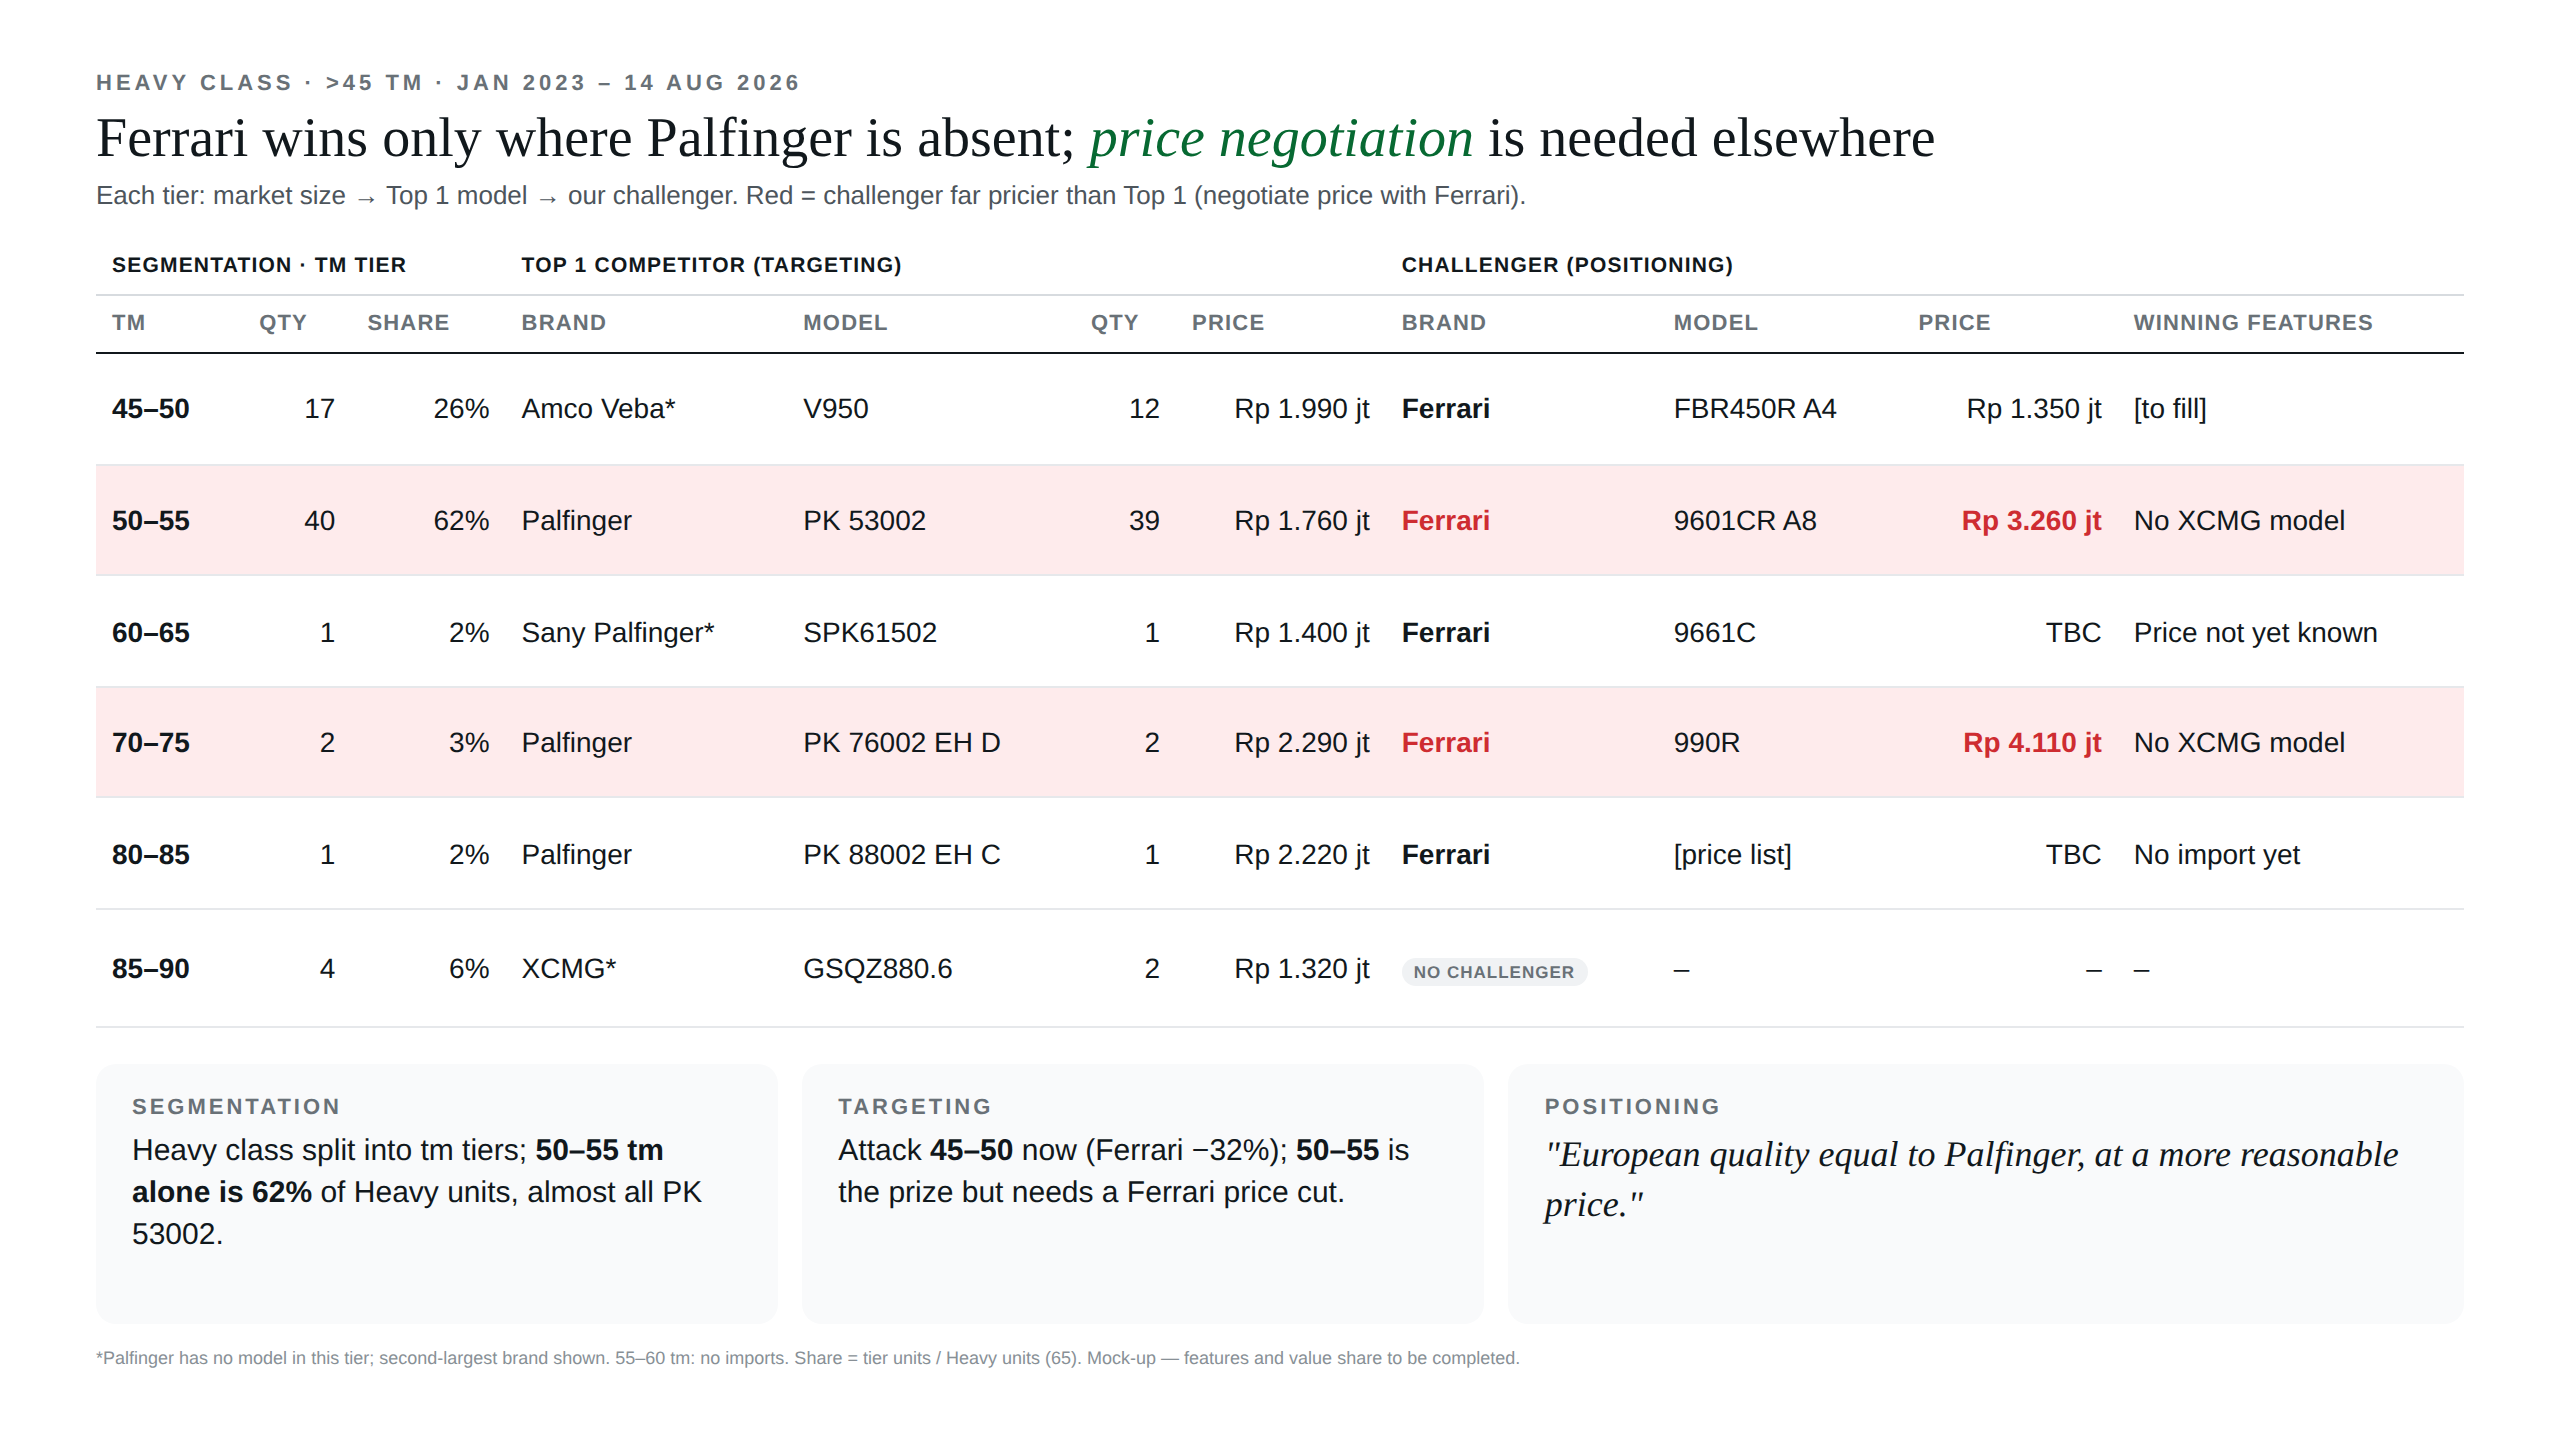
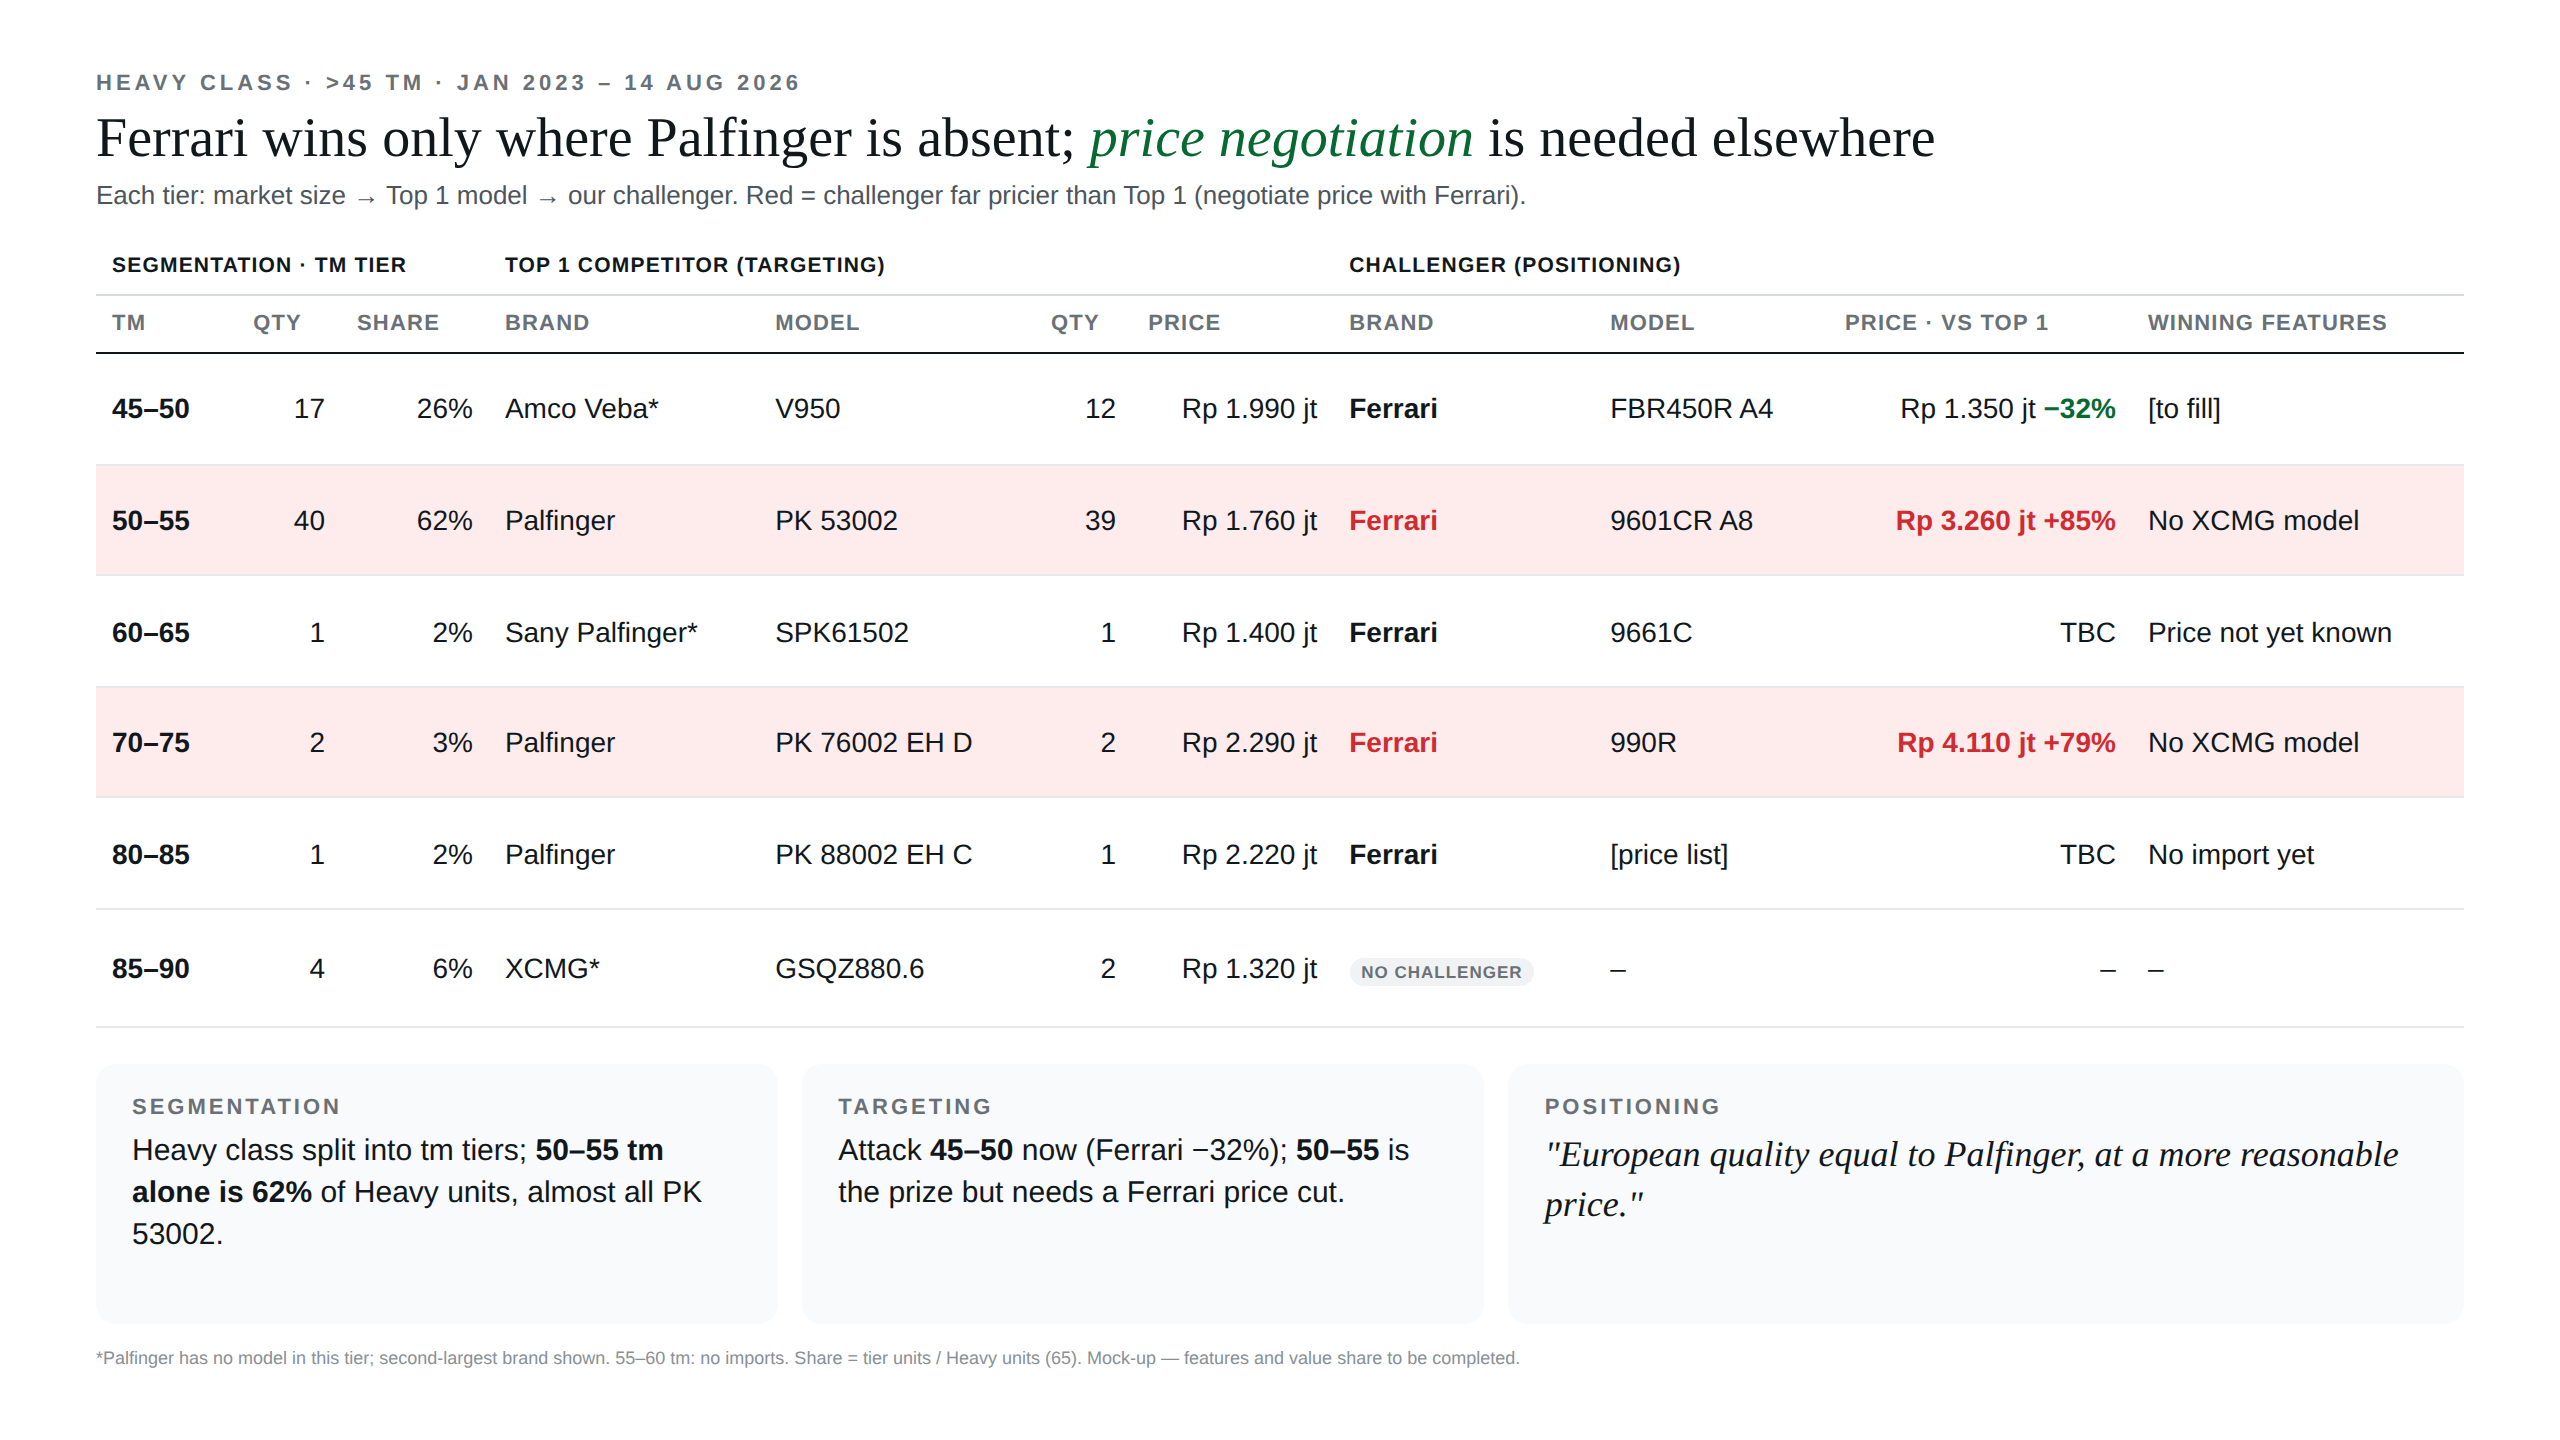
STP mockup: show challenger price gap vs Top 1
Claude-Session: https://claude.ai/code/session_01Cx9kswyecF7JAB1Rr5vVcV

diff --git a/nedp_deck/stp_table_mockup.html b/nedp_deck/stp_table_mockup.html
@@ -29,11 +29,11 @@ tr:nth-child(1),tr:nth-child(2){height:1px}th{padding:8px!important}
 <div class="l">Each tier: market size → Top 1 model → our challenger. Red = challenger more than ~40% pricier (negotiate price with Ferrari).</div>
 <table>
 <tr><th class="g" colspan="3">Segmentation · tm tier</th><th class="g" colspan="4">Top 1 competitor (targeting)</th><th class="g" colspan="4">Challenger (positioning)</th></tr>
-<tr><th>tm</th><th>Qty</th><th>Share</th><th>Brand</th><th>Model</th><th>Qty</th><th>Price</th><th>Brand</th><th>Model</th><th>Price</th><th>Winning features</th></tr>
-<tr><td class="b">25–30</td><td class="n">49</td><td class="n">25%</td><td>Amco Veba*</td><td>V825</td><td class="n">31</td><td class="n">Rp 650 jt</td><td class="b">Ferrari</td><td>268 A4</td><td class="n">Rp 500 jt</td><td>[to fill]</td></tr>
-<tr class="red"><td class="b">30–35</td><td class="n">62</td><td class="n">32%</td><td>Sany Palfinger</td><td>SPK32080</td><td class="n">33</td><td class="n">Rp 530 jt</td><td class="ch">Ferrari</td><td>FBR350R A4</td><td class="n ch">Rp 1.090 jt</td><td>No XCMG below Top 1</td></tr>
-<tr><td class="b">35–40</td><td class="n">66</td><td class="n">34%</td><td>Sany Palfinger</td><td>SPK36080</td><td class="n">37</td><td class="n">Rp 660 jt</td><td class="b">XCMG</td><td>SQZ365.4</td><td class="n">Rp 600 jt</td><td>[to fill]</td></tr>
-<tr class="red"><td class="b">40–45</td><td class="n">19</td><td class="n">10%</td><td>Sany Palfinger</td><td>SPK42502</td><td class="n">18</td><td class="n">Rp 960 jt</td><td class="ch">Ferrari</td><td>746 A4</td><td class="n ch">Rp 1.420 jt</td><td>No XCMG model</td></tr>
+<tr><th>tm</th><th>Qty</th><th>Share</th><th>Brand</th><th>Model</th><th>Qty</th><th>Price</th><th>Brand</th><th>Model</th><th>Price · vs Top 1</th><th>Winning features</th></tr>
+<tr><td class="b">25–30</td><td class="n">49</td><td class="n">25%</td><td>Amco Veba*</td><td>V825</td><td class="n">31</td><td class="n">Rp 650 jt</td><td class="b">Ferrari</td><td>268 A4</td><td class="n">Rp 500 jt <b style='color:#076932'>−23%</b></td><td>[to fill]</td></tr>
+<tr class="red"><td class="b">30–35</td><td class="n">62</td><td class="n">32%</td><td>Sany Palfinger</td><td>SPK32080</td><td class="n">33</td><td class="n">Rp 530 jt</td><td class="ch">Ferrari</td><td>FBR350R A4</td><td class="n ch">Rp 1.090 jt +106%</td><td>No XCMG below Top 1</td></tr>
+<tr><td class="b">35–40</td><td class="n">66</td><td class="n">34%</td><td>Sany Palfinger</td><td>SPK36080</td><td class="n">37</td><td class="n">Rp 660 jt</td><td class="b">XCMG</td><td>SQZ365.4</td><td class="n">Rp 600 jt <b style='color:#076932'>−9%</b></td><td>[to fill]</td></tr>
+<tr class="red"><td class="b">40–45</td><td class="n">19</td><td class="n">10%</td><td>Sany Palfinger</td><td>SPK42502</td><td class="n">18</td><td class="n">Rp 960 jt</td><td class="ch">Ferrari</td><td>746 A4</td><td class="n ch">Rp 1.420 jt +48%</td><td>No XCMG model</td></tr>
 </table>
 <div class="stp">
 <div class="c"><b>SEGMENTATION</b><p>Medium class split into 4 tm tiers; 30–40 tm holds <strong>66%</strong> of units.</p></div>
@@ -48,11 +48,11 @@ tr:nth-child(1),tr:nth-child(2){height:1px}th{padding:8px!important}
 <div class="l">Each tier: market size → Top 1 model → our challenger. Red = challenger far pricier than Top 1 (negotiate price with Ferrari).</div>
 <table>
 <tr><th class="g" colspan="3">Segmentation · tm tier</th><th class="g" colspan="4">Top 1 competitor (targeting)</th><th class="g" colspan="4">Challenger (positioning)</th></tr>
-<tr><th>tm</th><th>Qty</th><th>Share</th><th>Brand</th><th>Model</th><th>Qty</th><th>Price</th><th>Brand</th><th>Model</th><th>Price</th><th>Winning features</th></tr>
-<tr><td class="b">45–50</td><td class="n">17</td><td class="n">26%</td><td>Amco Veba*</td><td>V950</td><td class="n">12</td><td class="n">Rp 1.990 jt</td><td class="b">Ferrari</td><td>FBR450R A4</td><td class="n">Rp 1.350 jt</td><td>[to fill]</td></tr>
-<tr class="red"><td class="b">50–55</td><td class="n">40</td><td class="n">62%</td><td>Palfinger</td><td>PK 53002</td><td class="n">39</td><td class="n">Rp 1.760 jt</td><td class="ch">Ferrari</td><td>9601CR A8</td><td class="n ch">Rp 3.260 jt</td><td>No XCMG model</td></tr>
+<tr><th>tm</th><th>Qty</th><th>Share</th><th>Brand</th><th>Model</th><th>Qty</th><th>Price</th><th>Brand</th><th>Model</th><th>Price · vs Top 1</th><th>Winning features</th></tr>
+<tr><td class="b">45–50</td><td class="n">17</td><td class="n">26%</td><td>Amco Veba*</td><td>V950</td><td class="n">12</td><td class="n">Rp 1.990 jt</td><td class="b">Ferrari</td><td>FBR450R A4</td><td class="n">Rp 1.350 jt <b style='color:#076932'>−32%</b></td><td>[to fill]</td></tr>
+<tr class="red"><td class="b">50–55</td><td class="n">40</td><td class="n">62%</td><td>Palfinger</td><td>PK 53002</td><td class="n">39</td><td class="n">Rp 1.760 jt</td><td class="ch">Ferrari</td><td>9601CR A8</td><td class="n ch">Rp 3.260 jt +85%</td><td>No XCMG model</td></tr>
 <tr><td class="b">60–65</td><td class="n">1</td><td class="n">2%</td><td>Sany Palfinger*</td><td>SPK61502</td><td class="n">1</td><td class="n">Rp 1.400 jt</td><td class="b">Ferrari</td><td>9661C</td><td class="n">TBC</td><td>Price not yet known</td></tr>
-<tr class="red"><td class="b">70–75</td><td class="n">2</td><td class="n">3%</td><td>Palfinger</td><td>PK 76002 EH D</td><td class="n">2</td><td class="n">Rp 2.290 jt</td><td class="ch">Ferrari</td><td>990R</td><td class="n ch">Rp 4.110 jt</td><td>No XCMG model</td></tr>
+<tr class="red"><td class="b">70–75</td><td class="n">2</td><td class="n">3%</td><td>Palfinger</td><td>PK 76002 EH D</td><td class="n">2</td><td class="n">Rp 2.290 jt</td><td class="ch">Ferrari</td><td>990R</td><td class="n ch">Rp 4.110 jt +79%</td><td>No XCMG model</td></tr>
 <tr><td class="b">80–85</td><td class="n">1</td><td class="n">2%</td><td>Palfinger</td><td>PK 88002 EH C</td><td class="n">1</td><td class="n">Rp 2.220 jt</td><td class="b">Ferrari</td><td>[price list]</td><td class="n">TBC</td><td>No import yet</td></tr>
 <tr><td class="b">85–90</td><td class="n">4</td><td class="n">6%</td><td>XCMG*</td><td>GSQZ880.6</td><td class="n">2</td><td class="n">Rp 1.320 jt</td><td><span class="tag t0">NO CHALLENGER</span></td><td>–</td><td class="n">–</td><td>–</td></tr>
 </table>
